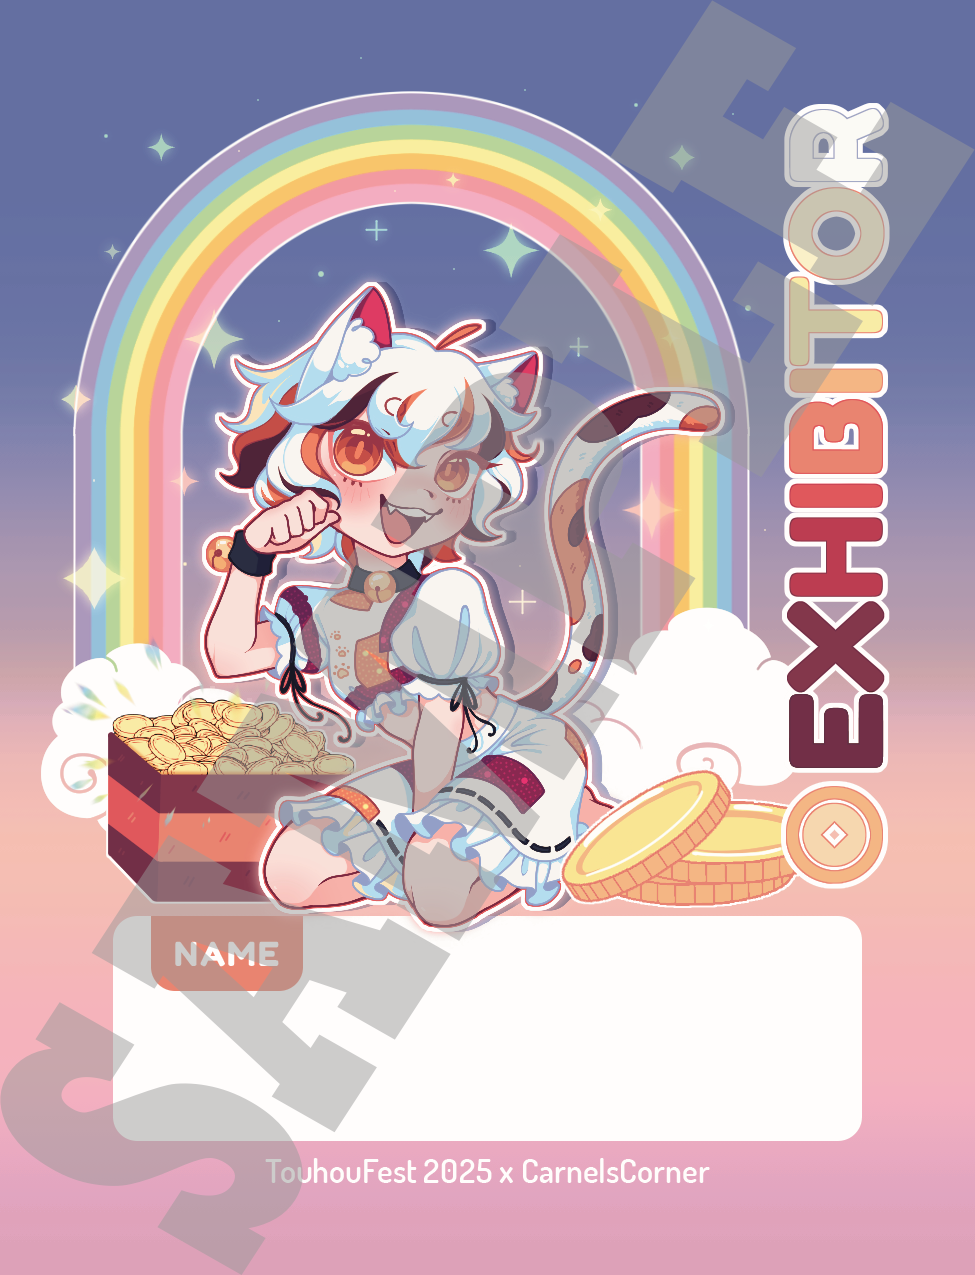
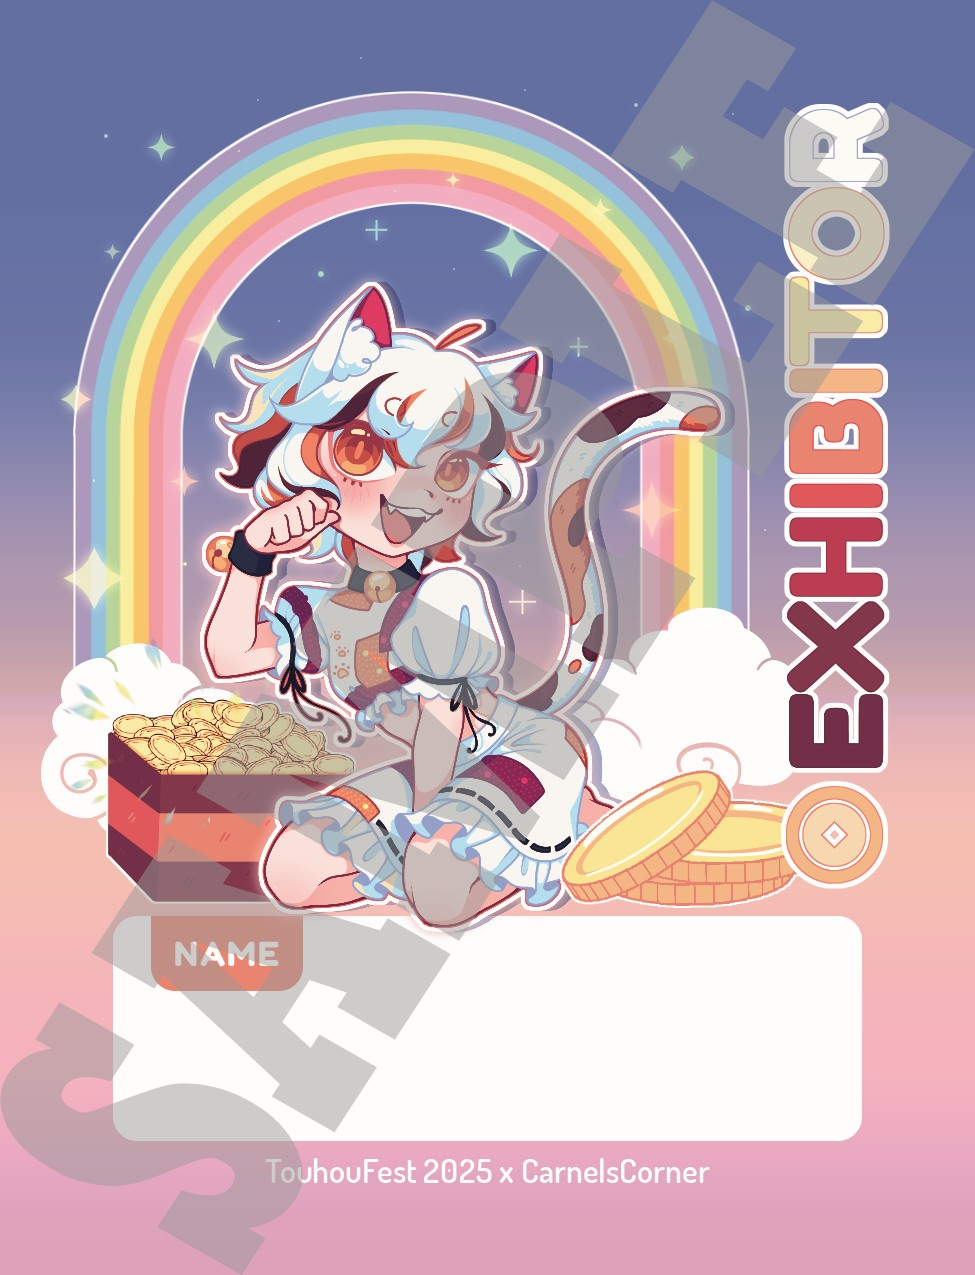
image size reductions

Changed region(s): [[0.1231, 0.5506, 0.2462, 0.6118], [0.2462, 0.2753, 0.3077, 0.3365], [0.2769, 0.52, 0.3385, 0.5506]]

diff --git a/src/menupages/MainLocations.tsx b/src/menupages/MainLocations.tsx
@@ -12,7 +12,7 @@ import { CircledBullets, torinoplaza, assemblyhall, kenmiller, pinewindgarden, t
 import { Figure, Row, Col } from 'react-bootstrap';
 
 import panelroom from "./../images/panelroom.jpg";
-import con_banner from "./../con_banner.png";
+import con_banner from "./../con_banner.jpg";
 import childrensartwing from "./../images/childrensartwing.jpg";
 import drawpaint from "./../images/drawpaint.jpg";
 

diff --git a/src/Utils.tsx b/src/Utils.tsx
@@ -114,7 +114,7 @@ export function CircledBullets({argument}: {argument:string}){
 }
 
 // location imports 
-import con_banner from "./con_banner.png";
+import con_banner from "./con_banner.jpg";
 import toyota from "./images/toyota.jpg";
 import kenmiller from "./images/kenmiller.webp";
 import pinewindgarden from "./images/pinewindgarden.jpg";
